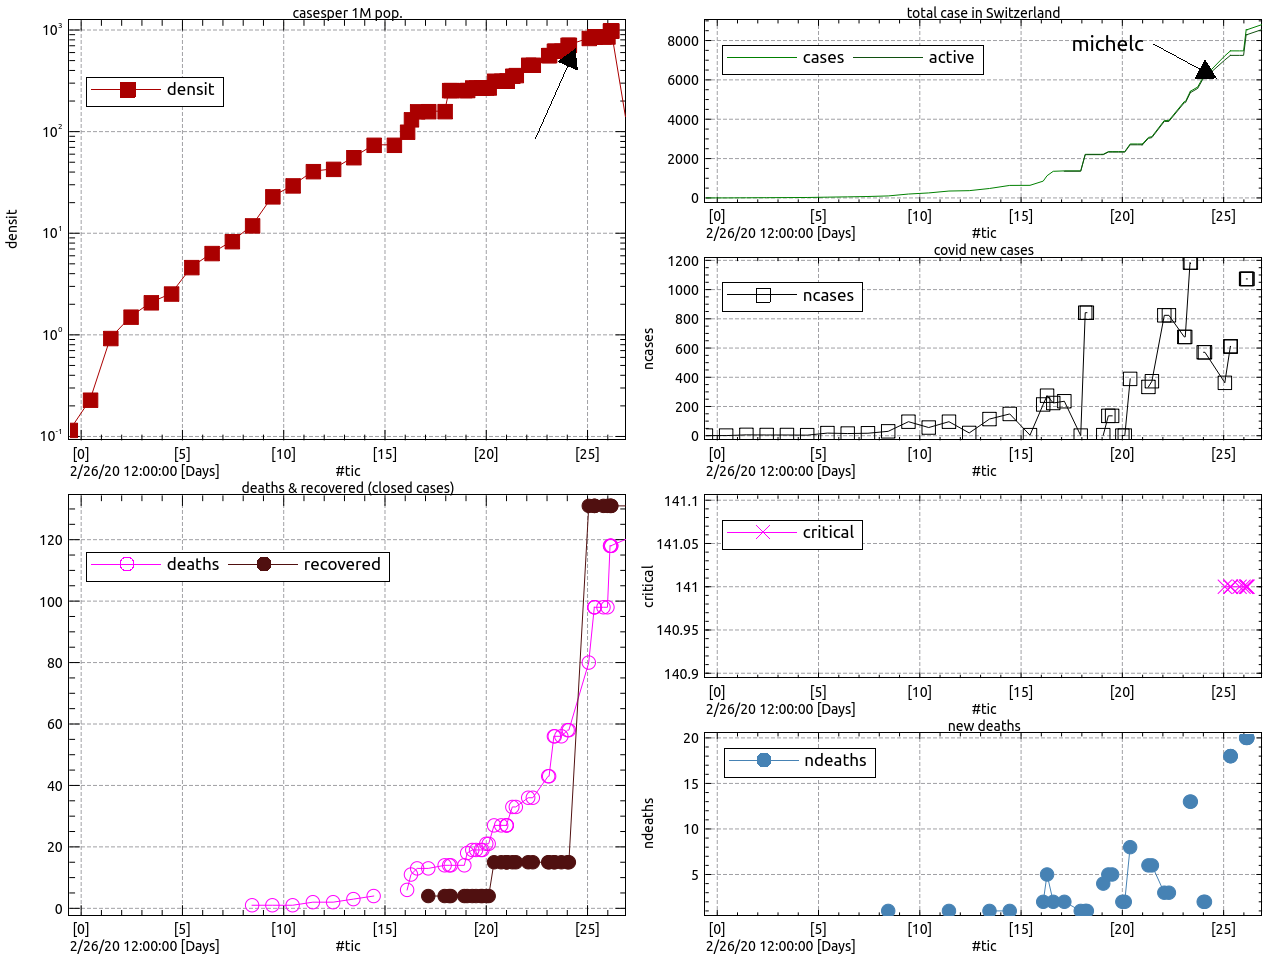
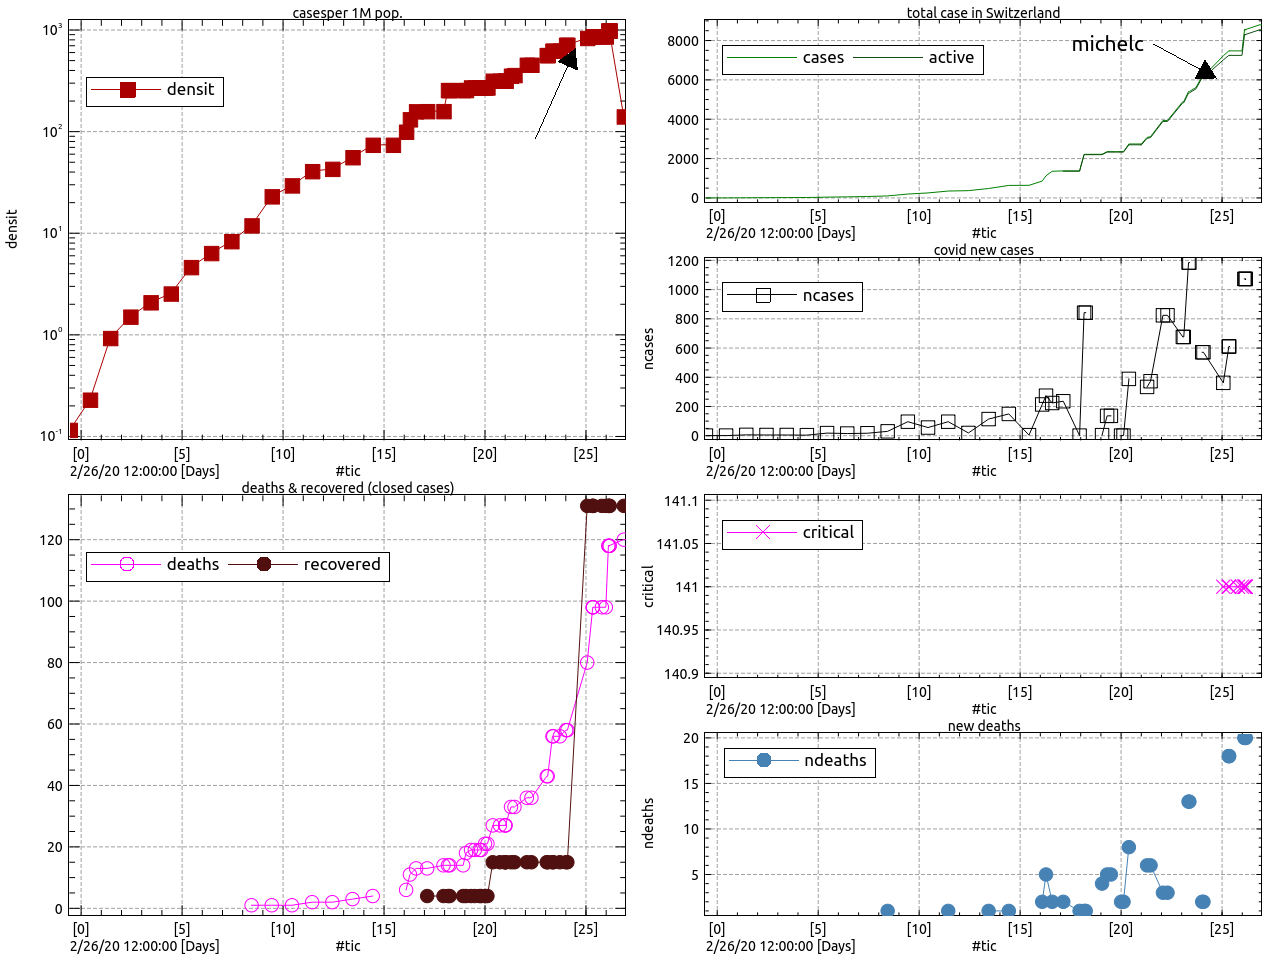
pandemy status on 03/24/20 11:59:32

diff --git a/myjourney.html b/myjourney.html
@@ -31,7 +31,7 @@
 <li>no temp in the evening</li>
 <li>bed at 10pm</li>
 </ul>
-<p>Tue Mar 24 07:58:12 CET 2020 - morning a little chest pain - no running nose - constipation now! - temp: 36.6d - thyme+clay gargle - vit C, beepolen,pro-biotic</p>
+<p>Tue Mar 24 07:58:12 CET 2020 - morning a little chest pain - no running nose - constipation now! - temp: 36.6d - thyme+clay gargle - vit C, beepolen,pro-biotic, zinc - tumeric+ginger+lemon tea - chest pain remains</p>
 <div class="footnotes">
 <hr />
 <ol>

diff --git a/README.md b/README.md
@@ -1,6 +1,6 @@
 # README: corona virus daily status in Switzerland ...
 
-## on 03/24/20 09:59:56 ([snapshot](https://ipfs.io/ipfs/QmY4pmA4H2abNWnWZpw9NNz1vS577dF9u4Ap2ZYt1Jh1GC))
+## on 03/24/20 11:59:32 ([snapshot](https://ipfs.io/ipfs/QmY4pmA4H2abNWnWZpw9NNz1vS577dF9u4Ap2ZYt1Jh1GC))
 
  141 cases per 1M pop,<br>
  8795 Total cases in Switzerland, 8544 actives (+1 : me)
@@ -8,7 +8,7 @@
  120 deaths,
  131 recovered (resurected ?)
 
-last update : <https://ipfs.blockringtm.ml/ipfs/QmYHceTs1dXxiM8DG22tqzJ6zJbbiKTAagRvNJiutq3t6z/covid19.html>
+last update : <https://ipfs.blockringtm.ml/ipfs/QmWmiLe8h642QGXDvMzv7rNTBTJrp1Dbu4JtSwJNsTLsnW/covid19.html>
 
 
 on Sat Mar, 21st I started to show symptoms : check my journal [here](myjourney.html).
@@ -41,8 +41,8 @@ sources:
   - <https://michel47.github.io/covid19>
   - <https://github.com/michel47/covid19>
   - <https://duckduckgo.com/?q=switzerland+progression+coronavirus>
-  - <https://gateway.ipfs.io/ipfs/QmNa5XymHn1rEBXtDyVZTUQ8oWqkhgsoEDVbt4mXzxx3QQ>
+  - <https://gateway.ipfs.io/ipfs/QmZmBQm8j5HrUuaQrEY3bp4Ga7xT97aPYBMmzJKzD4RDDo>
   - <https://gateway.ipfs.io/ipfs/QmY4pmA4H2abNWnWZpw9NNz1vS577dF9u4Ap2ZYt1Jh1GC>
-  - <https://gateway.ipfs.io/ipfs/QmYHceTs1dXxiM8DG22tqzJ6zJbbiKTAagRvNJiutq3t6z>
+  - <https://gateway.ipfs.io/ipfs/QmWmiLe8h642QGXDvMzv7rNTBTJrp1Dbu4JtSwJNsTLsnW>
   
 

diff --git a/covid19.md b/covid19.md
@@ -7,6 +7,7 @@
  ![CH covid19](covid.png)
 
 
+- \[03/24/20]: 8544/8795cases [QmZmBQm8j5HrUuaQrEY3bp4Ga7xT97aPYBMmzJKzD4RDDo](https://cloudflare-ipfs.com/ipfs/QmY4pmA4H2abNWnWZpw9NNz1vS577dF9u4Ap2ZYt1Jh1GC) [data](/ipfs/QmW9mfwTZUmTzjrhkXaZFxnU48BfvmJhbnCpt7f6MDSnZ4/covid.yml),[csv](/ipfs/QmW9mfwTZUmTzjrhkXaZFxnU48BfvmJhbnCpt7f6MDSnZ4/covid.csv)
 - \[03/24/20]: 8544/8795cases [QmNa5XymHn1rEBXtDyVZTUQ8oWqkhgsoEDVbt4mXzxx3QQ](https://cloudflare-ipfs.com/ipfs/QmY4pmA4H2abNWnWZpw9NNz1vS577dF9u4Ap2ZYt1Jh1GC) [data](/ipfs/QmVJJukTMxUR5nckEXWjuzS5ri4QUJTnJLwuUDznueX6GN/covid.yml),[csv](/ipfs/QmVJJukTMxUR5nckEXWjuzS5ri4QUJTnJLwuUDznueX6GN/covid.csv)
 - \[03/23/20]: 8298/8547cases [QmRhhD9bSruJNNWiuD8pxxbgZVHgDutTkEDFvRo6pTzTeE](https://cloudflare-ipfs.com/ipfs/QmY4pmA4H2abNWnWZpw9NNz1vS577dF9u4Ap2ZYt1Jh1GC) [data](/ipfs/QmPQgA5QUn1aG3eE1drjMbzrP56QLsffoaFQC2e1XVTRBi/covid.yml),[csv](/ipfs/QmPQgA5QUn1aG3eE1drjMbzrP56QLsffoaFQC2e1XVTRBi/covid.csv)
 - \[03/23/20]: 8298/8547cases [QmRhhD9bSruJNNWiuD8pxxbgZVHgDutTkEDFvRo6pTzTeE](https://cloudflare-ipfs.com/ipfs/QmY4pmA4H2abNWnWZpw9NNz1vS577dF9u4Ap2ZYt1Jh1GC) [data](/ipfs/QmdFS5wDp8ZBHzQXEBM4fkTLwTEpqkHL8zP8mi3RY1aB38/covid.yml),[csv](/ipfs/QmdFS5wDp8ZBHzQXEBM4fkTLwTEpqkHL8zP8mi3RY1aB38/covid.csv)

diff --git a/covid19u.md b/covid19u.md
@@ -97,3 +97,4 @@
 - \[03/23/20]: 8298/8547cases [QmRhhD9bSruJNNWiuD8pxxbgZVHgDutTkEDFvRo6pTzTeE](https://cloudflare-ipfs.com/ipfs/QmY4pmA4H2abNWnWZpw9NNz1vS577dF9u4Ap2ZYt1Jh1GC) [data](/ipfs/QmdFS5wDp8ZBHzQXEBM4fkTLwTEpqkHL8zP8mi3RY1aB38/covid.yml),[csv](/ipfs/QmdFS5wDp8ZBHzQXEBM4fkTLwTEpqkHL8zP8mi3RY1aB38/covid.csv)
 - \[03/23/20]: 8298/8547cases [QmRhhD9bSruJNNWiuD8pxxbgZVHgDutTkEDFvRo6pTzTeE](https://cloudflare-ipfs.com/ipfs/QmY4pmA4H2abNWnWZpw9NNz1vS577dF9u4Ap2ZYt1Jh1GC) [data](/ipfs/QmPQgA5QUn1aG3eE1drjMbzrP56QLsffoaFQC2e1XVTRBi/covid.yml),[csv](/ipfs/QmPQgA5QUn1aG3eE1drjMbzrP56QLsffoaFQC2e1XVTRBi/covid.csv)
 - \[03/24/20]: 8544/8795cases [QmNa5XymHn1rEBXtDyVZTUQ8oWqkhgsoEDVbt4mXzxx3QQ](https://cloudflare-ipfs.com/ipfs/QmY4pmA4H2abNWnWZpw9NNz1vS577dF9u4Ap2ZYt1Jh1GC) [data](/ipfs/QmVJJukTMxUR5nckEXWjuzS5ri4QUJTnJLwuUDznueX6GN/covid.yml),[csv](/ipfs/QmVJJukTMxUR5nckEXWjuzS5ri4QUJTnJLwuUDznueX6GN/covid.csv)
+- \[03/24/20]: 8544/8795cases [QmZmBQm8j5HrUuaQrEY3bp4Ga7xT97aPYBMmzJKzD4RDDo](https://cloudflare-ipfs.com/ipfs/QmY4pmA4H2abNWnWZpw9NNz1vS577dF9u4Ap2ZYt1Jh1GC) [data](/ipfs/QmW9mfwTZUmTzjrhkXaZFxnU48BfvmJhbnCpt7f6MDSnZ4/covid.yml),[csv](/ipfs/QmW9mfwTZUmTzjrhkXaZFxnU48BfvmJhbnCpt7f6MDSnZ4/covid.csv)
